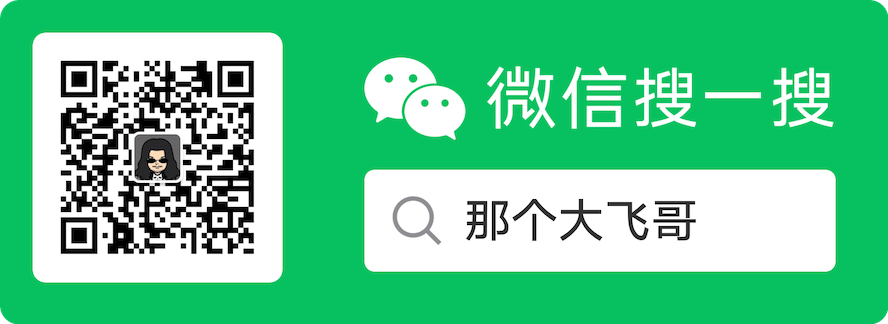
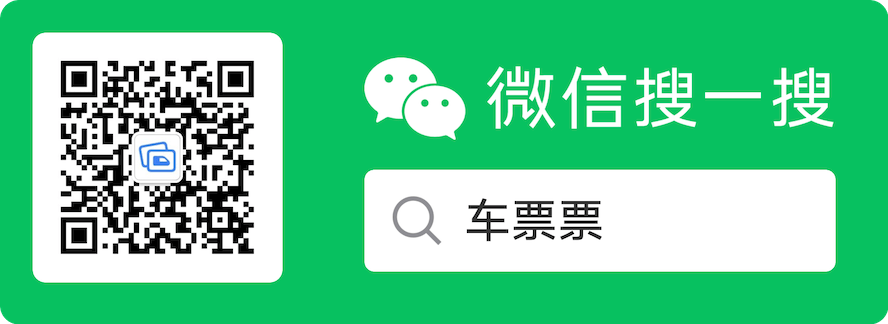
更新小红书账号、微信公众号；修改CDN地址；更新changelog

Changed region(s): [[0.0608, 0.1852, 0.3041, 0.8025], [0.5169, 0.6173, 0.7905, 0.7407]]

diff --git a/_includes/footer.html b/_includes/footer.html
@@ -3,6 +3,14 @@
 	<p class="footerText">Developed by {% if site.your_link %}<a href="{{ site.your_link }}">{% endif %}{{ site.your_name }}{% if site.your_link %}</a>{% endif %}{% if site.your_city %} in {{ site.your_city }}{% endif %}</p>
 	{% endif %}
 	<div class="footerIcons">
+		{% if site.xiaohongshu_userid %}
+			<a href="https://www.xiaohongshu.com/user/profile/{{ site.xiaohongshu_userid }}">
+				<span class="fa-stack fa-1x">
+					<i class="socialIconBack fas fa-circle fa-stack-2x"></i>
+					<i class="socialIconTop fas fa-book fa-stack-1x"></i>
+				</span>
+			</a>
+		{% endif %}
 
 		{% if site.facebook_username %}
 			<a href="https://facebook.com/{{ site.facebook_username }}">
@@ -45,15 +53,6 @@
 				<span class="fa-stack fa-1x">
 					<i class="socialIconBack fas fa-circle fa-stack-2x"></i>
 					<i class="socialIconTop fab fa-weibo fa-stack-1x"></i>
-				</span>
-			</a>
-		{% endif %}
-
-		{% if site.xiaohongshu_userid %}
-			<a href="https://www.xiaohongshu.com/user/profile/{{ site.xiaohongshu_userid }}">
-				<span class="fa-stack fa-1x">
-					<i class="socialIconBack fas fa-circle fa-stack-2x"></i>
-					<i class="socialIconTop fas fa-book fa-stack-1x"></i>
 				</span>
 			</a>
 		{% endif %}

diff --git a/_includes/head.html b/_includes/head.html
@@ -25,9 +25,9 @@
 	{% endif %}
 
 	<!-- <link rel="stylesheet" href="https://use.fontawesome.com/releases/v5.15.4/css/all.css" integrity="sha384-DyZ88mC6Up2uqS4h/KRgHuoeGwBcD4Ng9SiP4dIRy0EXTlnuz47vAwmeGwVChigm" crossorigin="anonymous"> -->
-	<link rel="stylesheet" href="https://lf3-cdn-tos.bytecdntp.com/cdn/expire-1-M/font-awesome/5.15.4/css/all.min.css">
+	<link rel="stylesheet" href="https://s4.zstatic.net/ajax/libs/font-awesome/5.15.4/css/all.min.css">
 	<link rel="stylesheet" href="{{ '/main.css' | relative_url }}">
 
 	<!-- <script src="https://ajax.googleapis.com/ajax/libs/jquery/3.1.0/jquery.min.js"></script> -->
-	<script src="https://lf3-cdn-tos.bytecdntp.com/cdn/expire-1-M/jquery/3.1.0/jquery.min.js"></script>
+	<script src="https://s4.zstatic.net/ajax/libs/jquery/3.1.0/jquery.min.js"></script>
 </head>

diff --git a/_pages/changelog.md b/_pages/changelog.md
@@ -7,6 +7,52 @@ order: 8
 
 # 更新日志 Changelog
 
+## V1.6.0(5) - 2025.12.16 周二 Tue
+
+**简体中文**
+
+- 实时活动支持指定时间自动开启（iOS 26及以上）
+- 下车提醒支持设置闹钟（iOS 26及以上）、填写备注；按距离提醒改为发车后才可设置
+- 出行提醒、实时活动、小组件、刚刚结束的行程支持自定义时间
+- 小号小组件，底部增加时刻表、票夹按钮（iOS 17及以上）
+- 正晚点调整，早到时间放宽至计划时间前3小时内
+- 进一步优化国铁纸质车票识别
+- 修复会员状态可能展示不准确的问题
+
+**English**
+
+- Live Activities can now be scheduled to start automatically at a specified time (iOS 26 and later)
+- Get off reminders now support alarms (iOS 26 and later) and notes; distance-based reminders can only be set after departure
+- Travel reminders, Live Activities, widgets, and recently ended itineraries now support custom times
+- Small widget now includes timetable and past tickets buttons at the bottom (iOS 17 and later)
+- Early arrival is now allowed up to 3 hours before the scheduled time
+- Further improvements to China Railway paper ticket recognition
+- Fixed an issue where membership status might be displayed inaccurately
+
+## V1.5.9(5) - 2025.11.5 周三 Wed
+
+**简体中文**
+
+- 支持国铁纸质车票扫描录入
+- 时刻表添加车票支持按车次查询
+- 添加车票时支持选择分组
+- 优化编辑车票时日期、时间录入体验
+- 修复“找回国铁最近1年车票的功能，页面可能会错误地显示没有车票”的问题
+- 修复“iOS 26，自定义车站页，点击地图上的火车图标不显示车站信息”的问题
+- 优化港铁车次判断
+- 更新车站数据
+
+**English**
+
+- Added support for scanning and importing China Railway paper tickets
+- Timetable now supports searching tickets by train number
+- Added the ability to choose a group when adding tickets
+- Improved date and time input experience when editing tickets
+- Fixed an issue where “Retrieve China Railway tickets from the past year” might incorrectly show no tickets
+- Fixed an issue where tapping the train icon on the map in the custom station page (iOS 26) did not display station information
+- Improved MTR train number recognition
+- Updated station data
+
 ## V1.5.8(1) - 2025.9.30 周二 Tue
 
 **简体中文**
